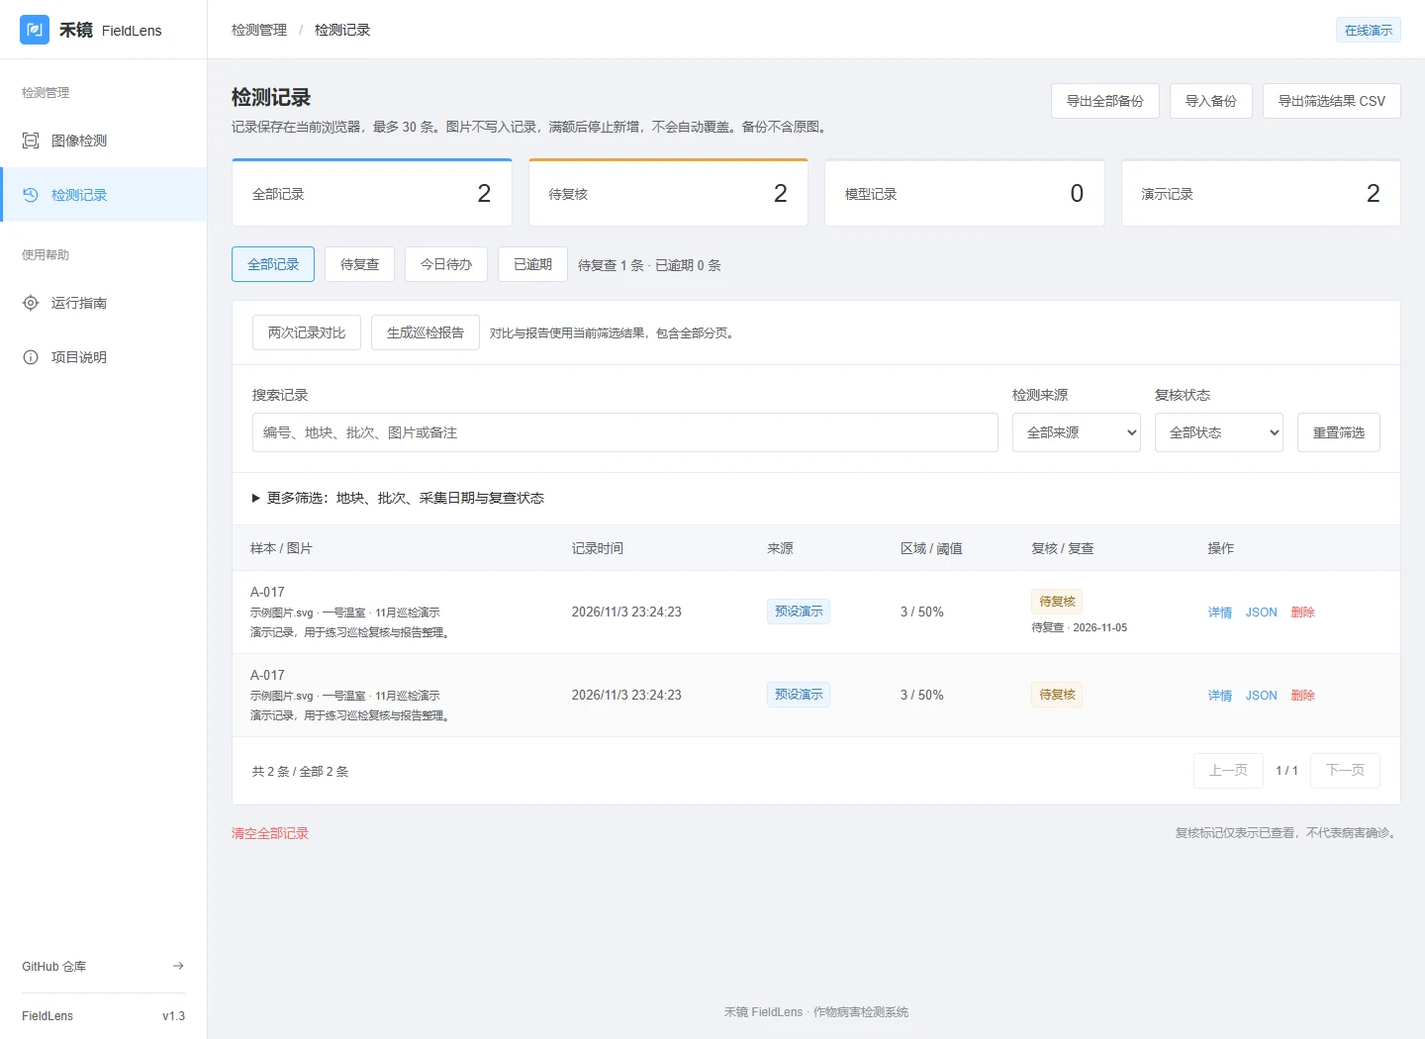
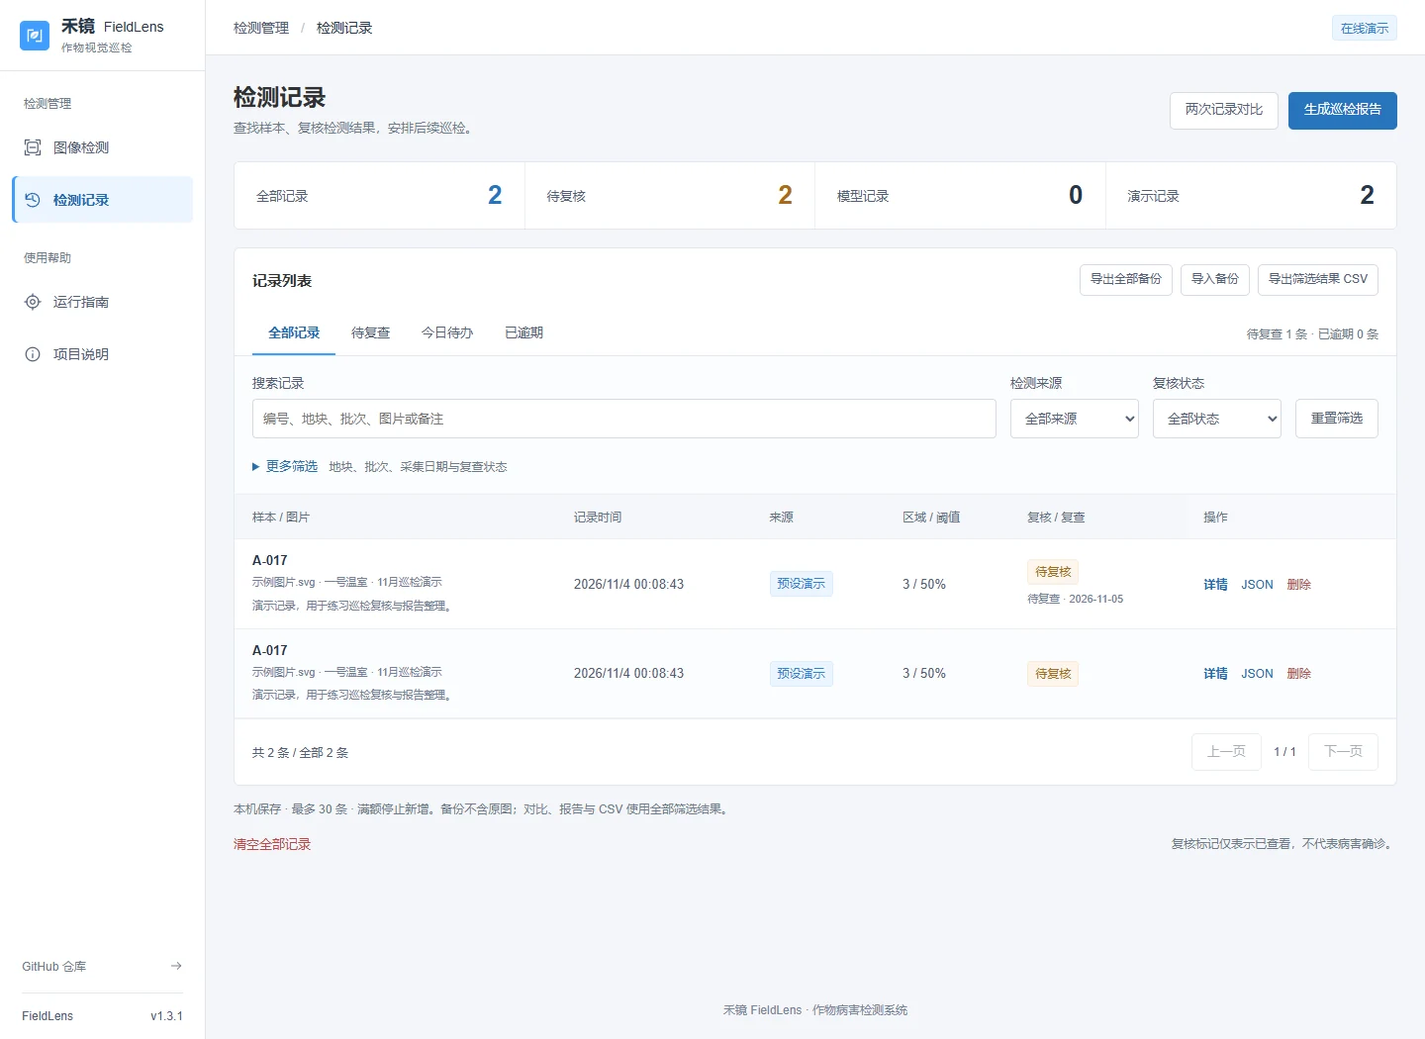
Show FieldLens tabbed details mobile record cards and refined workspace

diff --git a/index.html b/index.html
@@ -27,7 +27,7 @@
   <script src="reader.js?v=20261031-functional-review" defer></script>
   <title>Hang Gu | Research &amp; Engineering</title>
   <link rel="stylesheet" href="demos/operations-cards.css?v=20261028">
-<link rel="stylesheet" href="expert-polish.css?v=20261101-ui-audit"><link rel="stylesheet" href="portfolio-design.css?v=20261101-evidence"><link rel="stylesheet" href="project-cinema.css?v=20261101-ui-audit"><script src="project-cinema.js?v=20261101" defer></script><link rel="stylesheet" href="fieldlens-portfolio.css?v=20261103-inspection"><link rel="stylesheet" href="demo-gallery.css?v=20261101-evidence"><script src="demo-gallery.js?v=20261101" defer></script><link rel="stylesheet" href="highlight-design.css?v=20261101"><link rel="stylesheet" href="research/admissions.css?v=20261102">
+<link rel="stylesheet" href="expert-polish.css?v=20261101-ui-audit"><link rel="stylesheet" href="portfolio-design.css?v=20261101-evidence"><link rel="stylesheet" href="project-cinema.css?v=20261101-ui-audit"><script src="project-cinema.js?v=20261101" defer></script><link rel="stylesheet" href="fieldlens-portfolio.css?v=20261104-ui"><link rel="stylesheet" href="demo-gallery.css?v=20261101-evidence"><script src="demo-gallery.js?v=20261101" defer></script><link rel="stylesheet" href="highlight-design.css?v=20261101"><link rel="stylesheet" href="research/admissions.css?v=20261102">
 <link rel="stylesheet" href="updates.css?v=20261103-reading">
 </head>
 <body class="portfolio-home">
@@ -147,7 +147,7 @@ train.py  →  test.py</code></pre><p class="preview-foot" data-en="Illustrative
             <div class="project-body"><span class="case-index" aria-hidden="true">03</span><div class="project-meta"><span data-en="LOW-CODE ENGINEERING EXAMPLE" data-zh="低代码工程示例">LOW-CODE ENGINEERING EXAMPLE</span><span>JavaScript / JSON</span></div><p class="project-evidence-label" data-en="INTERACTIVE PROTOTYPE · SYNTHETIC DATA" data-zh="交互原型 · 合成数据">INTERACTIVE PROTOTYPE · SYNTHETIC DATA</p><h3 data-en="Schema-driven Form Studio" data-zh="配置驱动表单工作台">Schema-driven Form Studio</h3><dl class="project-case-facts"><dt data-en="Problem" data-zh="问题">Problem</dt><dd data-en="Keep configuration, rendered fields and validation in agreement." data-zh="让配置、渲染字段和校验规则保持一致。">Keep configuration, rendered fields and validation in agreement.</dd><dt data-en="Public implementation" data-zh="公开实现">Public implementation</dt><dd data-en="Six field types, stable keys, JSON import and an independent validation core." data-zh="六类字段、稳定字段键、JSON 导入与独立校验核心。">Six field types, stable keys, JSON import and an independent validation core.</dd><dt data-en="Trade-off" data-zh="取舍">Trade-off</dt><dd data-en="Validate before replacing a schema; a valid import resets preview values." data-zh="先验证再替换配置；合法导入后清空预览值，避免语义错配。">Validate before replacing a schema; a valid import resets preview values.</dd><dt data-en="Evidence" data-zh="验证">Evidence</dt><dd data-en="10 core tests rerun on 1 Nov; inspect invalid-import recovery in the demo." data-zh="11 月 1 日重跑 10 项核心测试；演示可检查错误导入的恢复。">10 core tests rerun on 1 Nov; inspect invalid-import recovery in the demo.</dd></dl><div class="tags"><span>Schema</span><span>Dynamic forms</span><span>Validation</span><span>Vue patterns</span></div><p class="source-note" data-en="AI-assisted learning implementation with synthetic data. Client-side checks do not establish backend authorization or production acceptance." data-zh="AI 辅助实现的合成数据学习示例；客户端检查不代表后端授权或生产验收。">AI-assisted learning implementation with synthetic data. Client-side checks do not establish backend authorization or production acceptance.</p><div class="project-links"><a href="demos/low-code-form/" data-en="Online form studio ↗" data-zh="在线表单工作台 ↗">Online form studio ↗</a><a href="notebook/schema-import-review.html" data-en="Decisions &amp; checks ↗" data-zh="复盘与验证 ↗">Decisions &amp; checks ↗</a><a href="demos/low-code-form/schema.json" data-en="Schema ↗" data-zh="Schema 配置 ↗">Schema ↗</a><a href="https://github.com/GuHang2011/GuHang2011.github.io/blob/main/demos/low-code-form/README.md" data-en="Design notes ↗" data-zh="设计说明 ↗">Design notes ↗</a></div></div>
           </article>
           <article class="project-item" data-category="engineering" id="project-fieldlens" data-case-index="04">
-            <figure class="project-media"><button type="button" data-preview="assets/fieldlens/workspace.webp" aria-label="Preview FieldLens crop inspection" data-en-label="Preview FieldLens crop inspection" data-zh-label="查看禾镜检测工作台截图"><img src="assets/fieldlens/workspace.webp" alt="FieldLens image inspection with zoom, detection regions and report exports" data-en-alt="FieldLens image inspection with zoom, detection regions and report exports" data-zh-alt="禾镜图像检测工作台：图片缩放、检测区域和报告导出" loading="lazy" width="1920" height="1470" decoding="async"></button><figcaption data-en="Browser screenshot · Preset demo annotations" data-zh="浏览器实拍 · 预设演示标注">Browser screenshot · Preset demo annotations</figcaption></figure><div class="project-body"><span class="case-index" aria-hidden="true">04</span><div class="project-meta"><span data-en="COMPUTER VISION / INSPECTION TOOLS" data-zh="计算机视觉 / 检测工具">COMPUTER VISION / INSPECTION TOOLS</span><span>2026.11</span></div><p class="project-evidence-label" data-en="LIVE DEMO · OPTIONAL LOCAL YOLO" data-zh="在线演示 · 可接入本地 YOLO">LIVE DEMO · OPTIONAL LOCAL YOLO</p><h3 data-en="FieldLens · Crop Image Inspection" data-zh="禾镜 FieldLens · 作物图像检测">FieldLens · Crop Image Inspection</h3><p data-en="An Element-style crop inspection workspace with region reviews, record comparison, printable reports and optional AI assistance." data-zh="Element 风格的检测工作台：逐区域复核、两次记录对比、巡检报告打印，并可接入通用 AI 平台。">An Element-style crop inspection workspace with region reviews, record comparison, printable reports and optional AI assistance.</p><div class="tags"><span>JavaScript</span><span>YOLO</span><span>Flask</span><span>Canvas</span><span>Playwright</span></div><p data-en="Version 1.3 keeps local YOLO and backups, adding manual region decisions, comparison warnings and a server-side Chat Completions adapter." data-zh="v1.3 保留本地 YOLO 与备份恢复，增加区域意见、对比条件提示和服务端通用 AI 接口。">Version 1.3 keeps local YOLO and backups, adding manual region decisions, comparison warnings and a server-side Chat Completions adapter.</p><p class="source-note" data-en="The public page uses synthetic images and preset annotations. Real inference requires a locally supplied authorized model; crop-model accuracy has not been measured." data-zh="公开页面使用合成图片与预设标注；真实推理需要本地配置授权模型，尚未测量作物模型准确率。">The public page uses synthetic images and preset annotations. Real inference requires a locally supplied authorized model; crop-model accuracy has not been measured.</p><div class="project-links"><a href="/fieldlens/" data-en="Open workspace ↗" data-zh="打开检测工作台 ↗">Open workspace ↗</a><a href="cases/fieldlens/" data-en="User review &amp; fixes ↗" data-zh="用户问题与修复 ↗">User review &amp; fixes ↗</a><a href="https://github.com/GuHang2011/fieldlens" data-en="Source &amp; setup ↗" data-zh="源码与部署 ↗">Source &amp; setup ↗</a></div></div></article>
+            <figure class="project-media"><button type="button" data-preview="assets/fieldlens/workspace.webp?v=20261104-ui" aria-label="Preview FieldLens crop inspection" data-en-label="Preview FieldLens crop inspection" data-zh-label="查看禾镜检测工作台截图"><img src="assets/fieldlens/workspace.webp?v=20261104-ui" alt="FieldLens image inspection with zoom, detection regions and report exports" data-en-alt="FieldLens image inspection with zoom, detection regions and report exports" data-zh-alt="禾镜图像检测工作台：图片缩放、检测区域和报告导出" loading="lazy" width="1920" height="1470" decoding="async"></button><figcaption data-en="Browser screenshot · Preset demo annotations" data-zh="浏览器实拍 · 预设演示标注">Browser screenshot · Preset demo annotations</figcaption></figure><div class="project-body"><span class="case-index" aria-hidden="true">04</span><div class="project-meta"><span data-en="COMPUTER VISION / INSPECTION TOOLS" data-zh="计算机视觉 / 检测工具">COMPUTER VISION / INSPECTION TOOLS</span><span>2026.11</span></div><p class="project-evidence-label" data-en="LIVE DEMO · OPTIONAL LOCAL YOLO" data-zh="在线演示 · 可接入本地 YOLO">LIVE DEMO · OPTIONAL LOCAL YOLO</p><h3 data-en="FieldLens · Crop Image Inspection" data-zh="禾镜 FieldLens · 作物图像检测">FieldLens · Crop Image Inspection</h3><p data-en="An Element-style crop inspection workspace with region reviews, record comparison, printable reports and optional AI assistance." data-zh="Element 风格的检测工作台：逐区域复核、两次记录对比、巡检报告打印，并可接入通用 AI 平台。">An Element-style crop inspection workspace with region reviews, record comparison, printable reports and optional AI assistance.</p><div class="tags"><span>JavaScript</span><span>YOLO</span><span>Flask</span><span>Canvas</span><span>Playwright</span></div><p data-en="Version 1.3.1 adds tabbed record details, mobile record cards and clearer toolbars, while keeping local YOLO and compatible AI integration." data-zh="v1.3.1 整理详情分区与操作栏，手机记录改为卡片；保留本地 YOLO、通用 AI 接口及原有巡检功能。">Version 1.3.1 adds tabbed record details, mobile record cards and clearer toolbars, while keeping local YOLO and compatible AI integration.</p><p class="source-note" data-en="The public page uses synthetic images and preset annotations. Real inference requires a locally supplied authorized model; crop-model accuracy has not been measured." data-zh="公开页面使用合成图片与预设标注；真实推理需要本地配置授权模型，尚未测量作物模型准确率。">The public page uses synthetic images and preset annotations. Real inference requires a locally supplied authorized model; crop-model accuracy has not been measured.</p><div class="project-links"><a href="/fieldlens/" data-en="Open workspace ↗" data-zh="打开检测工作台 ↗">Open workspace ↗</a><a href="cases/fieldlens/" data-en="User review &amp; fixes ↗" data-zh="用户问题与修复 ↗">User review &amp; fixes ↗</a><a href="https://github.com/GuHang2011/fieldlens" data-en="Source &amp; setup ↗" data-zh="源码与部署 ↗">Source &amp; setup ↗</a></div></div></article>
 
           <article class="project-item" data-category="engineering" id="project-ai-office">
             <figure class="project-media"><a href="https://github.com/GuHang2011/engineering-notes/blob/main/notes/personal-ai-keys.md"><img src="https://raw.githubusercontent.com/GuHang2011/engineering-notes/main/screenshots/ai-settings-desktop.png" alt="AI workspace settings with hidden personal key, endpoint controls and connection feedback" data-en-alt="AI workspace settings with hidden personal key, endpoint controls and connection feedback" data-zh-alt="AI 工作区设置：隐藏的个人密钥、服务地址配置与连接反馈" loading="lazy"></a><figcaption data-en="Local UI test fixture · Synthetic connection response" data-zh="本地界面测试夹具 · 模拟连接响应">Local UI test fixture · Synthetic connection response</figcaption></figure>

diff --git a/cases/fieldlens/index.html b/cases/fieldlens/index.html
@@ -7,7 +7,7 @@
 <h1>禾镜 FieldLens</h1><p class="lead">一个用于作物图片检测与结果复核的工作台。支持逐区域记录人工意见、两次记录对照、巡检报告打印，以及可选的通用 AI 平台辅助；保留本地 YOLO 检测、样本批次和备份恢复。</p>
 <div class="actions"><a class="primary" href="/fieldlens/">打开检测工作台 ↗</a><a href="https://github.com/GuHang2011/fieldlens">GitHub 源码 ↗</a><a href="/fieldlens/#guide">本地运行指南 ↗</a></div>
 <p class="notice">公开页面是交互演示，示例图片和检测框均为预设数据。真实 YOLO 推理需要在本地配置有授权的目标检测权重；本项目没有发布模型精度或病害确诊结论。</p>
-<section class="screenshots"><h2>检测工作台</h2><figure><img src="../../assets/fieldlens/workspace.webp" width="1920" height="1470" alt="禾镜检测工作台，显示图片缩放、预设检测框与结果导出"><figcaption>浏览器实拍。示例仅用于体验检测框、阈值和导出流程。</figcaption></figure></section>
+<section id="ui-refinement"><h2>v1.3.1：让复核操作更顺手</h2><ul class="feature-list"><li><strong>工作台：</strong>图片、参数、结果按操作顺序编号，统一间距、表单和按钮层级。</li><li><strong>记录管理：</strong>报告与对比放在页头，备份和导出集中到列表工具栏；手机使用记录卡片，减少左右滑动。</li><li><strong>详情分区：</strong>区域复核、样本信息、复查安排和 AI 辅助分别呈现，切换保留草稿；键盘也能操作。</li><li><strong>手机操作：</strong>详情内容独立滚动，关闭和保存区保持可见；360×640 小屏检查通过。</li></ul><p>检测、备份、复查与 AI 接口继续保留。界面调整完成原有流程回归，另检查了标签焦点、草稿保留和跨分区保存。</p><a href="https://github.com/GuHang2011/fieldlens/blob/main/docs/UI_REFINEMENT.md">查看界面问题、修复与手机截图 ↗</a></section><section class="screenshots"><h2>检测工作台</h2><figure><img src="../../assets/fieldlens/workspace.webp?v=20261104-ui" width="1920" height="1470" alt="禾镜检测工作台，显示图片缩放、预设检测框与结果导出"><figcaption>浏览器实拍。示例仅用于体验检测框、阈值和导出流程。</figcaption></figure></section>
 <section><h2>从用户问题到具体修复</h2><div class="table-wrap"><table><thead><tr><th>用户会遇到的问题</th><th>改进后的操作</th></tr></thead><tbody>
 <tr><td>在线页面能直接识别自己的图片吗？</td><td>在操作前显示能力说明。在线版禁用真实检测入口，并提供 Windows、macOS / Linux 本地运行步骤。</td></tr>
 <tr><td>图片里的检测区域太小，看不清楚。</td><td>新增 50%–300% 相对缩放与适应窗口，检测框同步缩放；可隐藏框查看原图。</td></tr>
@@ -18,7 +18,7 @@
 <tr><td>只想删错的一条记录，却只能全部清空。</td><td>新增单条删除和确认提示；清空全部保留为独立操作。</td></tr>
 <tr><td>选错图片或检测等太久，怎么退出？</td><td>可清除当前图片、取消等待。防止旧图片读取完成后覆盖新选择；取消后不生成成功记录。</td></tr>
 </tbody></table></div></section>
-<section class="screenshots"><h2>记录检索与人工复核</h2><figure><img src="../../assets/fieldlens/history.webp" width="1440" height="1050" loading="lazy" alt="检测记录中的搜索、来源筛选、复核状态、备注和导出入口"><figcaption>演示记录，用于展示检索与复核流程。复核状态只表示人工查看，不代表病害确诊。</figcaption></figure></section>
-<section><h2>v1.2：把一次检测接到后续巡检</h2><ul class="feature-list"><li><strong>样本与批次：</strong>填写样本编号、作物、地块、采集时间与巡检批次，按日期和地块组合查找。</li><li><strong>复查待办：</strong>安排补拍、结果存疑等任务，填写计划日期和处理说明，关联后续检测；已查看与已完成分别记录。</li><li><strong>完整备份：</strong>导出全部记录并恢复，导入前检查重复和冲突；默认保留旧记录，只有明确选择才覆盖。</li><li><strong>容量保护：</strong>达到 30 条后停止新增，保留当前结果供导出，不自动删除历史。</li></ul><p>提醒仅在打开站点时显示，不提供浏览器关闭后的推送。备份不含原图或模型权重。</p><a href="https://github.com/GuHang2011/fieldlens/blob/main/docs/PRACTICAL_RELEASE.md">查看使用步骤与验证范围 ↗</a></section><section><h2>v1.3：复核意见可以落到具体区域</h2><ul class="feature-list"><li><strong>逐区域复核：</strong>标记待确认、保留或疑似误检，填写原因，原始检测框与置信度不变。</li><li><strong>两次记录对比：</strong>查看样本信息、位置示意与数量；模型、阈值、来源不一致时给出提示，不按框数判断病情。</li><li><strong>巡检报告：</strong>按当前筛选结果生成报告，支持学院或课程名称、演示记录分组和浏览器打印为 PDF。</li><li><strong>AI 平台接口：</strong>保留 YOLO，增加服务端兼容 Chat Completions 的文字接口，可配置 DeepSeek 等；发送前预览，回答不会自动修改记录。</li></ul><p>AI 密钥仅放在服务端。公开静态页面保留接入入口与文档，不调用真实平台；本次仅用模拟响应验证接口，未使用付费密钥评估效果。记录对比不包含已存原图。</p><a href="https://github.com/GuHang2011/fieldlens/blob/main/docs/INSPECTION_RELEASE.md">查看功能说明与截图 ↗</a> · <a href="https://github.com/GuHang2011/fieldlens/blob/main/docs/AI_PLATFORM.md">AI 平台配置 ↗</a></section><section><h2>实现与验证</h2><ul class="feature-list"><li>前端：原生 ES Modules、Vite、Canvas；对照 Element 官网色彩、导航、表格和表单规范，采用浅色分组侧栏、40px 表单、固定操作列；支持宽屏三列布局。</li><li>本地服务：Flask、Pillow、可选 Ultralytics YOLO。上传图片在内存中处理，不随仓库分发模型权重。</li><li>记录：浏览器本地存储，最多 30 条，满额停止新增；完整 JSON 备份可手动跨设备恢复，不包含原图。</li><li>验证：25 项前端逻辑测试、14 项后端接口测试和浏览器流程检查；覆盖 360–2560px 布局、导出、筛选、复核、删除与失败状态。</li><li>实际模型精度、不同设备推理速度和田间效果尚未评估。</li></ul><a href="https://github.com/GuHang2011/fieldlens/blob/main/docs/USER_REVIEW.md">查看完整问题清单与验证记录 ↗</a></section>
-<div class="english" lang="en"><h2>FieldLens: a user-centered inspection workflow</h2><p>Review crop images, zoom into detection regions, export annotated PNG/CSV/JSON reports, and manage sample batches, plots and follow-up tasks. Complete JSON backups support previewed imports with explicit conflict choices; full storage never evicts older records. Version 1.3 adds region-level manual reviews, record comparison, printable reports and a server-side compatible AI adapter. The public demo uses synthetic artwork and preset annotations; it does not call an AI provider. Real YOLO inference requires an authorized local model; no crop-model accuracy claims are made.</p></div>
-</main><footer>Hang Gu · FieldLens v1.3 · <a href="../../#work">返回工程项目</a></footer></body></html>
+<section class="screenshots"><h2>记录检索与人工复核</h2><figure><img src="../../assets/fieldlens/history.webp?v=20261104-ui" width="1440" height="1050" loading="lazy" alt="检测记录中的搜索、来源筛选、复核状态、备注和导出入口"><figcaption>演示记录，用于展示检索与复核流程。复核状态只表示人工查看，不代表病害确诊。</figcaption></figure></section>
+<section><h2>v1.2：把一次检测接到后续巡检</h2><ul class="feature-list"><li><strong>样本与批次：</strong>填写样本编号、作物、地块、采集时间与巡检批次，按日期和地块组合查找。</li><li><strong>复查待办：</strong>安排补拍、结果存疑等任务，填写计划日期和处理说明，关联后续检测；已查看与已完成分别记录。</li><li><strong>完整备份：</strong>导出全部记录并恢复，导入前检查重复和冲突；默认保留旧记录，只有明确选择才覆盖。</li><li><strong>容量保护：</strong>达到 30 条后停止新增，保留当前结果供导出，不自动删除历史。</li></ul><p>提醒仅在打开站点时显示，不提供浏览器关闭后的推送。备份不含原图或模型权重。</p><a href="https://github.com/GuHang2011/fieldlens/blob/main/docs/PRACTICAL_RELEASE.md">查看使用步骤与验证范围 ↗</a></section><section><h2>v1.3：复核意见可以落到具体区域</h2><ul class="feature-list"><li><strong>逐区域复核：</strong>标记待确认、保留或疑似误检，填写原因，原始检测框与置信度不变。</li><li><strong>两次记录对比：</strong>查看样本信息、位置示意与数量；模型、阈值、来源不一致时给出提示，不按框数判断病情。</li><li><strong>巡检报告：</strong>按当前筛选结果生成报告，支持学院或课程名称、演示记录分组和浏览器打印为 PDF。</li><li><strong>AI 平台接口：</strong>保留 YOLO，增加服务端兼容 Chat Completions 的文字接口，可配置 DeepSeek 等；发送前预览，回答不会自动修改记录。</li></ul><p>AI 密钥仅放在服务端。公开静态页面保留接入入口与文档，不调用真实平台；本次仅用模拟响应验证接口，未使用付费密钥评估效果。记录对比不包含已存原图。</p><a href="https://github.com/GuHang2011/fieldlens/blob/main/docs/INSPECTION_RELEASE.md">查看功能说明与截图 ↗</a> · <a href="https://github.com/GuHang2011/fieldlens/blob/main/docs/AI_PLATFORM.md">AI 平台配置 ↗</a></section><section><h2>实现与验证</h2><ul class="feature-list"><li>前端：原生 ES Modules、Vite、Canvas；对照 Element 官网色彩、导航、表格和表单规范，采用浅色分组侧栏、标准表单、桌面表格与手机记录卡片；支持宽屏三列布局及详情分区。</li><li>本地服务：Flask、Pillow、可选 Ultralytics YOLO。上传图片在内存中处理，不随仓库分发模型权重。</li><li>记录：浏览器本地存储，最多 30 条，满额停止新增；完整 JSON 备份可手动跨设备恢复，不包含原图。</li><li>验证：25 项前端逻辑测试、14 项后端接口测试和浏览器流程检查；覆盖 360–2560px 布局、导出、筛选、复核、删除与失败状态。</li><li>实际模型精度、不同设备推理速度和田间效果尚未评估。</li></ul><a href="https://github.com/GuHang2011/fieldlens/blob/main/docs/USER_REVIEW.md">查看完整问题清单与验证记录 ↗</a></section>
+<div class="english" lang="en"><h2>FieldLens: a user-centered inspection workflow</h2><p>Review crop images, zoom into detection regions, export annotated PNG/CSV/JSON reports, and manage sample batches, plots and follow-up tasks. Complete JSON backups support previewed imports with explicit conflict choices; full storage never evicts older records. Version 1.3.1 refines the interface with tabbed details and mobile record cards. Version 1.3 adds region-level manual reviews, record comparison, printable reports and a server-side compatible AI adapter. The public demo uses synthetic artwork and preset annotations; it does not call an AI provider. Real YOLO inference requires an authorized local model; no crop-model accuracy claims are made.</p></div>
+</main><footer>Hang Gu · FieldLens v1.3.1 · <a href="../../#work">返回工程项目</a></footer></body></html>
